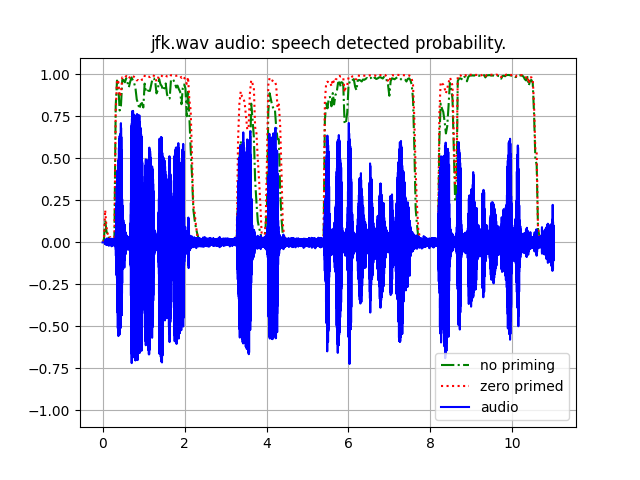
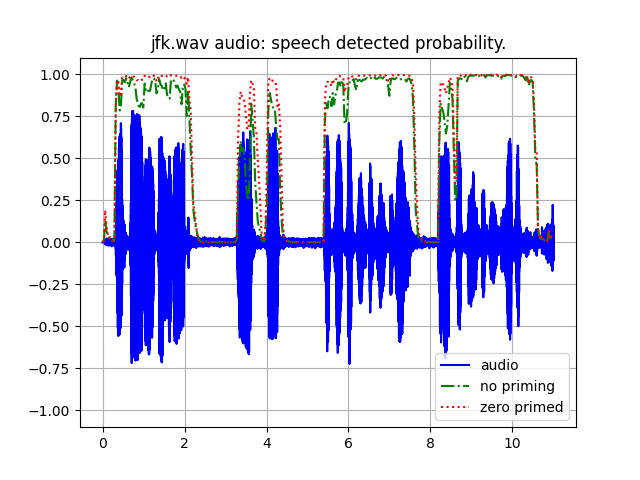
Changes plotting line order Improves visibility of the probability values.

diff --git a/main.py b/main.py
@@ -35,9 +35,9 @@ def main():
     audio_x_ticks = np.linspace(0.0, len(audio) / rate, len(audio))
 
     plt.figure()
+    plt.plot(audio_x_ticks, audio, "b", label="audio")
     plt.plot(x_ticks, speech_probs, "g-.", label="no priming")
     plt.plot(x_ticks, speech_probs_zero_primed, "r:", label="zero primed")
-    plt.plot(audio_x_ticks, audio, "b", label="audio")
     plt.ylim([-1.1, 1.1])
     plt.grid()
     plt.legend(loc="lower right")